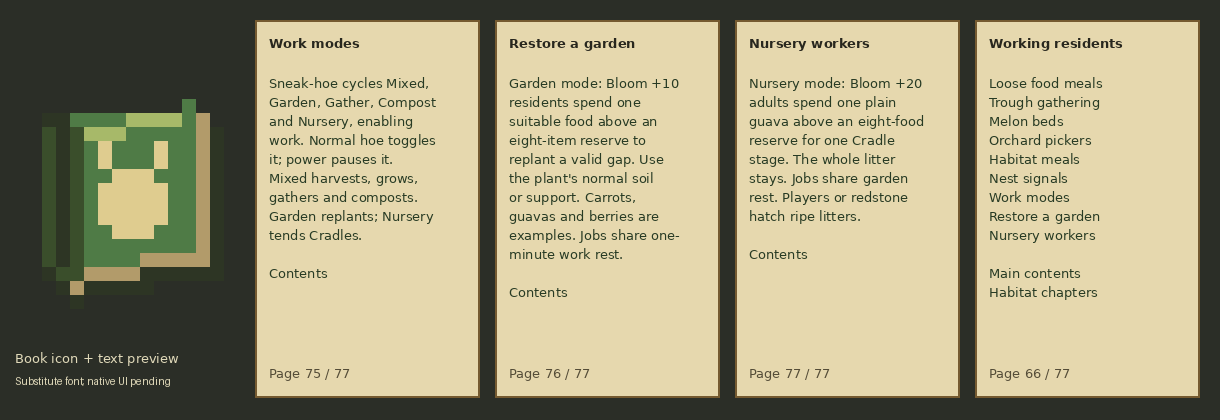
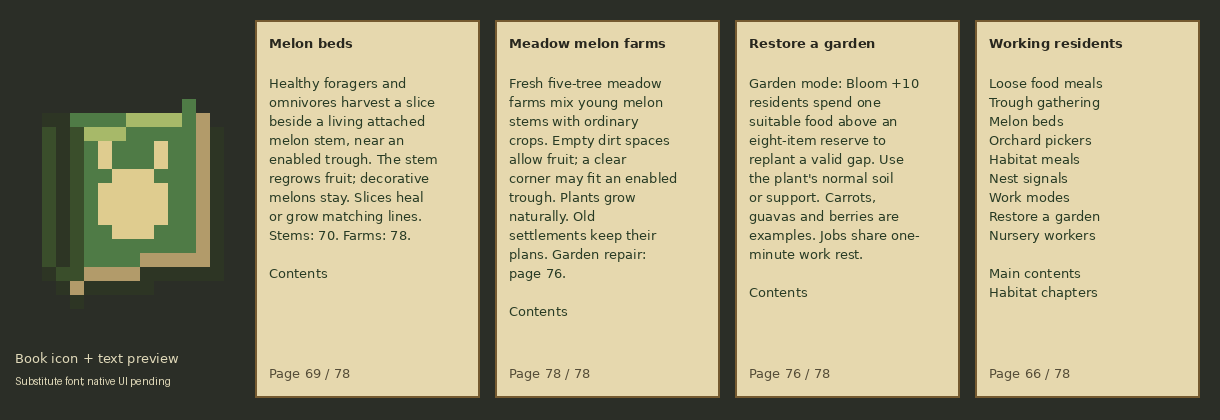
Add versioned meadow melon farms with reserved fruit spaces

diff --git a/tools/gametest/java/com/bunnidogs/mod/worldgen/RegionalFarmsGameTest.java b/tools/gametest/java/com/bunnidogs/mod/worldgen/RegionalFarmsGameTest.java
@@ -10,9 +10,11 @@ import com.bunnidogs.mod.layout.Settlement;
 import com.bunnidogs.mod.registry.ModBlocks;
 import net.minecraft.core.BlockPos;
 import net.minecraft.gametest.framework.GameTestHelper;
+import net.minecraft.util.RandomSource;
 import net.minecraft.world.item.ItemStack;
 import net.minecraft.world.item.Items;
 import net.minecraft.world.level.block.Blocks;
+import net.minecraft.world.level.block.StemBlock;
 import net.minecraft.world.level.levelgen.structure.pieces.StructurePieceSerializationContext;
 
 public final class RegionalFarmsGameTest {
@@ -51,6 +53,37 @@ public final class RegionalFarmsGameTest {
                     && level.getBlockEntity(troughPos) == trough && trough.food().getCount() == 3,"Surface-ground probing must also refuse the existing trellis roof without stacking plots");
         }
         clear(h);
+        for (int turns = 0; turns < 4; turns++) {
+            clear(h); var meadow = new Settlement.Prop(PropShape.Kind.FARM,0,0,turns);
+            h.assertTrue(WarrenFeature.buildProp(level,centre.getX(),centre.getY(),centre.getZ(),meadow,true,Lineage.MEADOW,true,true,true),"Fresh meadow melon beds must fit in every rotation");
+            var cells = RegionalFarms.cells(Lineage.MEADOW,turns,true,true);
+            var stems = cells.stream().filter(c -> c.mat() == PropShape.Mat.MELON_STEM).map(c -> centre.offset(c.dx(),c.dy(),c.dz())).toList();
+            for (var stem : stems) h.assertTrue(level.getBlockState(stem).is(Blocks.MELON_STEM) && level.getBlockState(stem).getValue(StemBlock.AGE) == 3
+                    && level.getBlockState(stem).canSurvive(level,stem),"New melon stems must begin young on valid farmland");
+            for (var gap : cells.stream().filter(c -> c.mat() == PropShape.Mat.FRUIT_SPACE).toList()) {
+                var pos = centre.offset(gap.dx(),gap.dy(),gap.dz());
+                h.assertTrue(level.getBlockState(pos).isAir() && level.getBlockState(pos.below()).is(Blocks.DIRT),"Melon gaps must be real empty cells over native fruit-support soil");
+            }
+            var corner = cells.stream().filter(c -> c.mat() == PropShape.Mat.TROUGH).findFirst().orElseThrow();
+            var pos = centre.offset(corner.dx(),corner.dy(),corner.dz()); var trough = (FeedingTroughBlockEntity)level.getBlockEntity(pos);
+            h.assertTrue(trough != null && trough.food().isEmpty(),"Meadow workers must start with an empty optional trough");
+            var stem = stems.getFirst(); level.setBlock(stem,Blocks.MELON_STEM.defaultBlockState().setValue(StemBlock.AGE,7),3);
+            var random = RandomSource.create(107);
+            for (int attempt = 0; attempt < 64 && level.getBlockState(stem).is(Blocks.MELON_STEM); attempt++)
+                level.getBlockState(stem).randomTick(level,stem,random);
+            h.assertTrue(level.getBlockState(stem).is(Blocks.ATTACHED_MELON_STEM),"Native growth must turn a supported ripe stem into real attached fruit");
+            trough.insert(new ItemStack(Items.MELON_SLICE,3));
+            h.assertTrue(!WarrenFeature.buildProp(level,centre.getX(),centre.getY(),centre.getZ(),meadow,true,Lineage.MEADOW,true,true,true)
+                    && level.getBlockEntity(pos) == trough && trough.food().getCount() == 3,"Repeated meadow generation must preserve working stock and grown fruit");
+        }
+        clear(h);
+        var oldMeadow = new Settlement.Prop(PropShape.Kind.FARM,0,0,0);
+        h.assertTrue(WarrenFeature.buildProp(level,centre.getX(),centre.getY(),centre.getZ(),oldMeadow,true,Lineage.MEADOW,true,true)
+                && level.getBlockState(centre.west()).is(Blocks.CARROTS),"Version-five meadow starts must keep their original crop geometry");
+        clear(h); var fruitGap = centre.offset(-1,0,1); level.setBlock(fruitGap,Blocks.CHEST.defaultBlockState(),3); var gapChest = level.getBlockEntity(fruitGap);
+        h.assertTrue(!WarrenFeature.buildProp(level,centre.getX(),centre.getY(),centre.getZ(),oldMeadow,true,Lineage.MEADOW,true,true,true)
+                && level.getBlockEntity(fruitGap) == gapChest && level.getBlockState(centre.below()).is(Blocks.GRASS_BLOCK),"A protected future fruit gap must refuse before any farm write");
+        clear(h);
         var prop = new Settlement.Prop(PropShape.Kind.FARM,0,0,0);
         h.assertTrue(WarrenFeature.buildProp(level,centre.getX(),centre.getY(),centre.getZ(),prop,true,Lineage.DESERT,false,false)
                 && level.getBlockState(centre.offset(-1,0,-1)).is(Blocks.WHEAT),"Old desert starts retain the previous crop plan");
@@ -61,8 +94,10 @@ public final class RegionalFarmsGameTest {
         var context = StructurePieceSerializationContext.fromLevel(level);
         var piece = new WarrenPiece(WarrenPiece.PROP,0,7,5,centre.getX(),centre.getZ(),centre.getY());
         var saved = piece.createTag(context);
-        h.assertTrue(saved.getIntOr("WarrenVersion",0) == 5 && new WarrenPiece(saved).createTag(context).getIntOr("WarrenVersion",0) == 5,
-                "New starts retain regional generation version five through native saves");
+        h.assertTrue(saved.getIntOr("WarrenVersion",0) == 6 && new WarrenPiece(saved).createTag(context).getIntOr("WarrenVersion",0) == 6,
+                "New starts retain meadow generation version six through native saves");
+        saved.putInt("WarrenVersion",5);
+        h.assertTrue(new WarrenPiece(saved).createTag(context).getIntOr("WarrenVersion",0) == 5,"Version-five plots must remain version five when loaded");
         saved.putInt("WarrenVersion",4);
         h.assertTrue(new WarrenPiece(saved).createTag(context).getIntOr("WarrenVersion",0) == 4,"Old starts must never be upgraded during load");
     }

diff --git a/art/gen_guide.py b/art/gen_guide.py
@@ -68,7 +68,7 @@ PAGES = {
     65: ('Snow-coat care', 'Brush healthy adult snow coats at Bloom +10 in a climate cold enough for snow to gather one snowball. Hidden snow gives none. Whiskers and Starlit Dust can combine. Hand and dispenser brushes share ten-minute rest. Shears gather wool separately.'),
     67: ('Loose food meals', 'Injured adults eat ordinary loose food near home by day after ten seconds. Diet, pickup delays and owner reservations apply. Upgraded guavas stay. One item heals 2 HP; food rest is thirty seconds. Keep a dry clear route.'),
     68: ('Trough gathering', 'Healthy adults at Senses +10 move one old loose matching food into a nearby hoe-enabled trough by day. Diet, filters, power and safe routes apply. Collection shares the one-minute garden rest. Loose meals: page 67.'),
-    69: ('Melon beds', 'Healthy foragers and omnivores harvest one slice from a melon beside its living attached stem, near a hoe-enabled trough. The stem stays to regrow fruit; decorative melons stay. Slices heal or grow matching lines. Stems: page 70.'),
+    69: ('Melon beds', 'Healthy foragers and omnivores harvest a slice beside a living attached melon stem, near an enabled trough. The stem regrows fruit; decorative melons stay. Slices heal or grow matching lines. Stems: 70. Farms: 78.'),
     70: ('Grow melon stems', 'Bloom +10 grows a young melon stem by one age at an enabled trough. No food is made. Mature stems await native fruit growth; leave nearby soil and air. Meadow stores may hold seeds. All jobs share one-minute garden rest.'),
     71: ('Orchard pickers', 'A dispenser with shears picks one ripe hanging guava and resets it to green for one tool use. Unripe fruit keeps the tool. Hoppers collect drops; shears still work on animals and beehives. Repair gaps: page 74.'),
     72: ('Habitat meals', 'Injured matching lines eat spare cactus tops, extra same-color mushrooms, ripe wart or stem-linked melons near home by day. Growing stock stays. No trough is needed. A meal heals 2 HP and shares thirty-second food rest.'),
@@ -77,8 +77,9 @@ PAGES = {
     75: ('Work modes', 'Sneak-hoe cycles Mixed, Garden, Gather, Compost and Nursery, enabling work. Normal hoe toggles it; power pauses it. Mixed harvests, grows, gathers and composts. Garden replants; Nursery tends Cradles.'),
     76: ('Restore a garden', 'Garden mode: Bloom +10 residents spend one suitable food above an eight-item reserve to replant a valid gap. Use the plant\'s normal soil or support. Carrots, guavas and berries are examples. Jobs share one-minute work rest.'),
     77: ('Nursery workers', 'Nursery mode: Bloom +20 adults spend one plain guava above an eight-food reserve for one Cradle stage. The whole litter stays. Jobs share garden rest. Players or redstone hatch ripe litters.'),
+    78: ('Meadow melon farms', 'Fresh five-tree meadow farms mix young melon stems with ordinary crops. Empty dirt spaces allow fruit; a clear corner may fit an enabled trough. Plants grow naturally. Old settlements keep their plans. Garden repair: page 76.'),
 }
-PAGE_COUNT = 77
+PAGE_COUNT = 78
 MAIN_INDEX = {2:'Warrens & scouts',4:'Breeding & seeds',8:'Homes & food',11:'Care & traits',15:'Lab & splicing',
               17:'Registry & shows',19:'Material drops',20:'Apex of the Line'}
 MORE_INDEX = {24:'Guava juice',25:'Gardens & stores',27:'Boss forecast',28:'Living harvests',29:'Terrain & fishing',
@@ -133,7 +134,7 @@ def main():
         bold = ImageFont.truetype('DejaVuSans-Bold.ttf',13)
     except OSError:
         font = bold = ImageFont.load_default()
-    for x,page in [(255,75),(495,76),(735,77),(975,66)]:
+    for x,page in [(255,69),(495,78),(735,76),(975,66)]:
         d.rectangle((x,20,x+224,397),fill=(230,216,174),outline=(117,90,48),width=2)
         title = 'Bunnidogs Guide' if page == 1 else 'More chapters' if page == 40 else 'New chapters' if page == 50 else 'Habitat chapters' if page == 56 else 'Working residents' if page == 66 else PAGES[page][0]
         d.text((x+14,35),title,font=bold,fill=(40,39,30))

diff --git a/art/preview_farms.py b/art/preview_farms.py
@@ -7,8 +7,9 @@ from PIL import Image, ImageDraw, ImageFont
 COLORS = {'SAND':(213,191,134),'CACTUS':(65,127,65),'SOUL_SAND':(91,67,58),'NETHER_WART':(146,35,45),
           'MYCELIUM':(129,112,136),'RED_MUSHROOM':(206,65,58),'BROWN_MUSHROOM':(155,117,84),
           'END_STONE':(218,218,169),'CHORUS_FLOWER':(162,119,162),'PLANK':(161,111,68),
-          'GLOW_VINE':(102,143,65),'FILL':(101,104,93),'TROUGH':(146,98,59)}
-PLANTS = {'NETHER_WART','RED_MUSHROOM','BROWN_MUSHROOM','CHORUS_FLOWER','GLOW_VINE'}
+          'GLOW_VINE':(102,143,65),'FILL':(101,104,93),'TROUGH':(146,98,59),'WATER':(56,114,173),
+          'FARMLAND':(106,74,48),'WHEAT':(183,168,65),'CARROTS':(105,162,57),'POTATOES':(122,151,66),'MELON_STEM':(133,170,65)}
+PLANTS = {'NETHER_WART','RED_MUSHROOM','BROWN_MUSHROOM','CHORUS_FLOWER','GLOW_VINE','WHEAT','CARROTS','POTATOES','MELON_STEM'}
 
 def main():
     farms=[]
@@ -16,13 +17,16 @@ def main():
         if line.startswith('FARM '): farms.append((line.split()[1],[]))
         elif line.strip():
             x,y,z,mat=line.split(); farms[-1][1].append((int(x),int(y),int(z),mat))
-    img=Image.new('RGB',(990,580),(37,42,39)); d=ImageDraw.Draw(img)
+    img=Image.new('RGB',(990,650),(37,42,39)); d=ImageDraw.Draw(img)
     font=ImageFont.truetype('DejaVuSans.ttf',14)
     for i,(name,cells) in enumerate(farms):
         ox,oy=165+(i%3)*330,207+(i//3)*270
         d.text((ox-95,oy-175),name.title(),font=font,fill=(233,225,193))
         for x,y,z,mat in sorted(cells,key=lambda c:(c[0]+c[2],c[1],c[0])):
             px,py=ox+(x-z)*32,oy+(x+z)*15-y*29
+            if mat == 'FRUIT_SPACE':
+                d.polygon([(px,py-17),(px+29,py-2),(px,py+13),(px-29,py-2)],outline=(234,197,104),width=2)
+                continue
             r=9 if mat in PLANTS else 29
             height=15 if mat in PLANTS else 10 if mat=='TROUGH' else 27
             c=COLORS[mat]; dark=tuple(int(v*.6) for v in c); mid=tuple(int(v*.8) for v in c)
@@ -31,10 +35,8 @@ def main():
             d.polygon([(px,py+r/2-height),(px+r,py-height),(px+r,py),(px,py+r/2)],fill=mid)
             d.polygon(top,fill=c,outline=(32,38,29))
             if mat=='GLOW_VINE': d.ellipse((px-4,py-height-4,px+4,py-height+4),fill=(246,176,49))
-    d.text((682,343),'Versioned regional farms',font=font,fill=(233,225,193))
-    d.text((682,374),'Same 3x3 footprint',font=font,fill=(190,194,174))
-    d.text((682,402),'Optional empty corner trough',font=font,fill=(190,194,174))
-    d.text((16,549),'Actual layout cells; approximate colors. Native terrain and client appearance require gameplay review.',font=font,fill=(190,194,174))
+    d.text((16,579),'Version-six meadow beds / same 3x3 footprint / optional empty corner trough',font=font,fill=(233,225,193))
+    d.text((16,606),'Outlines: fruit gaps. Actual cells; approximate colors. Native terrain and client appearance need playtests.',font=font,fill=(190,194,174))
     path=Path(__file__).with_name('regional_farms_preview.png'); img.save(path); print('Wrote',path.name)
 
 if __name__=='__main__': main()

diff --git a/src/main/java/com/bunnidogs/mod/worldgen/WarrenFeature.java b/src/main/java/com/bunnidogs/mod/worldgen/WarrenFeature.java
@@ -190,7 +190,7 @@ public class WarrenFeature extends Feature<NoneFeatureConfiguration> {
                 && RegionalFarms.eligible(p.kind(),style,surfaceOnly)).toList();
         int propsWanted = eligibleProps.size();
         for (Settlement.Prop prop : eligibleProps) {
-            if (buildProp(level, floor.getX() + prop.dx(), floor.getY(), floor.getZ() + prop.dz(), prop, surfaceOnly, style,true,true)) {
+            if (buildProp(level, floor.getX() + prop.dx(), floor.getY(), floor.getZ() + prop.dz(), prop, surfaceOnly, style,true,true,true)) {
                 props++;
                 builtProps.add(prop);
             }
@@ -319,6 +319,10 @@ public class WarrenFeature extends Feature<NoneFeatureConfiguration> {
     }
     static boolean buildProp(WorldGenLevel level, int x, int y, int z, Settlement.Prop prop, boolean surface,
             Lineage style, boolean garden, boolean regional) {
+        return buildProp(level,x,y,z,prop,surface,style,garden,regional,false);
+    }
+    static boolean buildProp(WorldGenLevel level, int x, int y, int z, Settlement.Prop prop, boolean surface,
+            Lineage style, boolean garden, boolean regional, boolean melonBeds) {
         BlockPos centre = groundAt(level, x, y, z, surface);
         if (centre == null) {
             return false;
@@ -354,7 +358,7 @@ public class WarrenFeature extends Feature<NoneFeatureConfiguration> {
         boolean fittedGarden = garden && prop.kind() == PropShape.Kind.FARM && (regional || style != Lineage.END)
                 && fitsGarden(level,base,prop.turns());
         List<PropShape.Cell> cells = regional && prop.kind() == PropShape.Kind.FARM
-                ? RegionalFarms.cells(style,prop.turns(),fittedGarden)
+                ? RegionalFarms.cells(style,prop.turns(),fittedGarden,melonBeds)
                 : PropShape.cells(prop.kind(), prop.turns(),fittedGarden);
         for (PropShape.Cell cell : cells) {
             if (cell.dy() >= 0 && !GuavaTree.replaceable(level.getBlockState(base.offset(cell.dx(), cell.dy(), cell.dz())))) {
@@ -416,6 +420,8 @@ public class WarrenFeature extends Feature<NoneFeatureConfiguration> {
             case CHORUS_FLOWER -> Blocks.CHORUS_FLOWER.defaultBlockState();
             case PLANK -> ModBlocks.GUAVA_PLANKS.get().defaultBlockState();
             case GLOW_VINE -> Blocks.CAVE_VINES.defaultBlockState().setValue(net.minecraft.world.level.block.CaveVines.BERRIES,true);
+            case MELON_STEM -> Blocks.MELON_STEM.defaultBlockState().setValue(net.minecraft.world.level.block.StemBlock.AGE,3);
+            case FRUIT_SPACE -> Blocks.AIR.defaultBlockState();
         };
     }
 

diff --git a/tools/warren/WarrenNetworkCheck.java b/tools/warren/WarrenNetworkCheck.java
@@ -45,6 +45,18 @@ public final class WarrenNetworkCheck {
                 if (style == Lineage.MEADOW || style == Lineage.TUNDRA || style == Lineage.MOUNTAIN)
                     require(regional.equals(PropShape.cells(PropShape.Kind.FARM,turns,garden)),"Ordinary agricultural layouts retain their geometry");
                 else require(regional.stream().noneMatch(c -> c.mat() == PropShape.Mat.WATER),"Regional beds need no unsupported water source");
+                var current = RegionalFarms.cells(style,turns,garden,true);
+                if (style != Lineage.MEADOW) require(current.equals(regional),"Version six must retain other regional plots");
+                else {
+                    require(current.stream().allMatch(c -> Math.abs(c.dx()) <= 1 && Math.abs(c.dz()) <= 1 && c.dy() >= -1 && c.dy() <= 0),"Melon beds must fit the old reservation");
+                    require(current.stream().map(c -> new Pos(c.dx(),c.dy(),c.dz())).distinct().count() == current.size(),"Melon bed cells cannot overlap");
+                    require(current.stream().filter(c -> c.dy() == -1).count() == 9 && current.stream().filter(c -> c.mat() == PropShape.Mat.WATER).count() == 1,"Melon beds need all nine supports and one native water source");
+                    var stems = current.stream().filter(c -> c.mat() == PropShape.Mat.MELON_STEM).toList();
+                    var spaces = current.stream().filter(c -> c.mat() == PropShape.Mat.FRUIT_SPACE).toList();
+                    require(stems.size() == 2 && spaces.size() == 2,"Meadow beds need two stems and two reserved fruit gaps");
+                    require(spaces.stream().allMatch(p -> stems.stream().anyMatch(s -> Math.abs(s.dx()-p.dx())+Math.abs(s.dz()-p.dz()) == 1)),"Each rotated fruit gap must touch a stem");
+                    require(current.stream().filter(c -> c.mat() == PropShape.Mat.TROUGH).count() == (garden ? 1 : 0),"Melon beds keep their optional single corner trough");
+                }
             }
             var farm = PropShape.cells(PropShape.Kind.FARM,turns,true);
             require(farm.stream().filter(c -> c.mat() == PropShape.Mat.TROUGH).count() == 1,"Each rotated working farm needs one trough");

diff --git a/src/main/java/com/bunnidogs/mod/layout/RegionalFarms.java b/src/main/java/com/bunnidogs/mod/layout/RegionalFarms.java
@@ -7,7 +7,7 @@ import com.bunnidogs.mod.genetics.Lineage;
 import com.bunnidogs.mod.layout.PropShape.Cell;
 import com.bunnidogs.mod.layout.PropShape.Mat;
 
-/** Version-five farm variants, all inside the original 3x3 footprint and three-block height reservation. */
+/** Versioned farm variants, all inside the original 3x3 footprint and three-block height reservation. */
 public final class RegionalFarms {
     private RegionalFarms() {}
     /** Underground features omit sky/water landmarks but can fit their water-free regional farm. */
@@ -20,8 +20,22 @@ public final class RegionalFarms {
         if (garden) out.add(new Cell(-1,0,-1,Mat.TROUGH));
     }
     public static List<Cell> cells(Lineage style, int turns, boolean garden) {
+        return cells(style,turns,garden,false);
+    }
+    public static List<Cell> cells(Lineage style, int turns, boolean garden, boolean melonBeds) {
         var raw = new ArrayList<Cell>();
         switch (style) {
+            case MEADOW -> {
+                if (!melonBeds) return PropShape.cells(PropShape.Kind.FARM,turns,garden);
+                for (int x = -1; x <= 1; x++) for (int z = -1; z <= 1; z++) {
+                    boolean trough = garden && x == -1 && z == -1;
+                    boolean fruit = z == 1 && x != 0;
+                    raw.add(new Cell(x,-1,z,x == 0 && z == 0 ? Mat.WATER : trough || fruit ? Mat.FILL : Mat.FARMLAND));
+                    if (x == 0 && z == 0) continue;
+                    raw.add(new Cell(x,0,z,trough ? Mat.TROUGH : fruit ? Mat.FRUIT_SPACE : z == 0 ? Mat.MELON_STEM
+                            : x == 0 ? z < 0 ? Mat.POTATOES : Mat.CARROTS : Mat.WHEAT));
+                }
+            }
             case DESERT -> {
                 ground(raw,Mat.SAND,garden);
                 raw.add(new Cell(0,0,0,Mat.CACTUS)); raw.add(new Cell(0,1,0,Mat.CACTUS));

diff --git a/src/main/java/com/bunnidogs/mod/worldgen/WarrenPiece.java b/src/main/java/com/bunnidogs/mod/worldgen/WarrenPiece.java
@@ -92,7 +92,7 @@ public class WarrenPiece extends StructurePiece {
         this.wayfinding = wayfinding.clone();
         this.lifeFixtures = lifeFixtures.clone();
         this.woodDetails = true;
-        this.generationVersion = 5;
+        this.generationVersion = 6;
     }
 
     public WarrenPiece(CompoundTag tag) {
@@ -195,7 +195,7 @@ public class WarrenPiece extends StructurePiece {
                         level == 1 && (style != Lineage.END || generationVersion < 2), networkDen,generationVersion >= 3);
             }
         } else if (kind == PROP) {
-            WarrenFeature.buildProp(world, x, y, z, s.props().get(index), true, style,generationVersion >= 4,generationVersion >= 5);
+            WarrenFeature.buildProp(world, x, y, z, s.props().get(index), true, style,generationVersion >= 4,generationVersion >= 5,generationVersion >= 6);
         } else {
             WarrenFeature.buildHouse(world, x, y, z, s.houses().get(index), true, style, level,woodDetails);
         }

diff --git a/tools/FarmDump.java b/tools/FarmDump.java
@@ -4,9 +4,9 @@ import com.bunnidogs.mod.layout.RegionalFarms;
 /** Actual regional cells for art/preview_farms.py; pure layout preview, not a Minecraft screenshot. */
 public final class FarmDump {
     public static void main(String[] args) {
-        for (var style : new Lineage[]{Lineage.DESERT,Lineage.NETHER,Lineage.SWAMP,Lineage.CAVE,Lineage.END}) {
+        for (var style : new Lineage[]{Lineage.MEADOW,Lineage.DESERT,Lineage.NETHER,Lineage.SWAMP,Lineage.CAVE,Lineage.END}) {
             System.out.println("FARM "+style);
-            for (var c : RegionalFarms.cells(style,0,true))
+            for (var c : RegionalFarms.cells(style,0,true,true))
                 System.out.println(c.dx()+" "+c.dy()+" "+c.dz()+" "+c.mat());
         }
     }

diff --git a/src/main/java/com/bunnidogs/mod/layout/PropShape.java b/src/main/java/com/bunnidogs/mod/layout/PropShape.java
@@ -24,7 +24,8 @@ public final class PropShape {
     public enum Kind { HAYSTACK, WELL, STALL, FARM, PLAZA }
 
     public enum Mat { HAY, BARREL, COBBLE, MOSSY, WATER, FENCE, SLAB, LANTERN, PUMPKIN, MELON, FARMLAND, WHEAT, CARROTS, POTATOES, FILL, TROUGH,
-        SAND, CACTUS, SOUL_SAND, NETHER_WART, MYCELIUM, RED_MUSHROOM, BROWN_MUSHROOM, END_STONE, CHORUS_FLOWER, PLANK, GLOW_VINE }
+        SAND, CACTUS, SOUL_SAND, NETHER_WART, MYCELIUM, RED_MUSHROOM, BROWN_MUSHROOM, END_STONE, CHORUS_FLOWER, PLANK, GLOW_VINE,
+        MELON_STEM, FRUIT_SPACE }
 
     /** One block of a landmark, relative to the centre column. */
     public record Cell(int dx, int dy, int dz, Mat mat) {}

diff --git a/src/main/java/com/bunnidogs/mod/item/FieldGuideItem.java b/src/main/java/com/bunnidogs/mod/item/FieldGuideItem.java
@@ -12,7 +12,7 @@ import net.minecraft.world.item.component.WrittenBookContent;
 
 /** Native book UI/packets, translated pages and local page links; no custom screen or payload. */
 public final class FieldGuideItem extends WrittenBookItem {
-    public static final int PAGE_COUNT = 77;
+    public static final int PAGE_COUNT = 78;
     private static final int MORE_CONTENTS = 40;
     private static final int NEW_CONTENTS = 50;
     private static final int HABITAT_CONTENTS = 56;

diff --git a/docs/API_NOTES.md b/docs/API_NOTES.md
@@ -28,6 +28,7 @@ Status words: **COMPILED** = the user's compile accepted it (names and types are
 ### Lookup table (need -> what works in this project -> status -> exact place)
 | Need | What works | Status | Where it was verified |
 |---|---|---|---|
+| Meadow farms L31 | Append MELON_STEM/FRUIT_SPACE materials and a version-six-only layout flag. Old overloads retain v5 cells; native StemBlock randomTick is protected, so native fixtures call BlockState.randomTick(ServerLevel,BlockPos,RandomSource). Young stems use age 3; dirt gaps must be authored air cells for full preflight. | Build/all 59 native cases plus focused rotated layout/old-version/growth checks | RegionalFarms, WarrenFeature, WarrenPiece, RegionalFarmsGameTest |
 | Selected resident work L28–L30/N9 | Save optional WorkMode on the existing trough BE; crouched hoe controls must extend TroughInteraction alongside food because native secondary use otherwise bypasses blocks. Reserve one exact surplus input, then recheck source identity/mode, worker, route and target after native callbacks; refund once on refusal/removal. Cradle nurture checks whole ItemStack/age/attachment and adds exactly one stage rather than random bone-meal ages. | Java 25 build/all 59 native scenarios; actual controls/saves, protected placement, reentrant source/litter changes and exact costs | TroughWork, ResidentPlanting, GardenGoal, NurseryCradleBlockEntity, ResidentWorkGameTest |
 | Nest comparator H9 | Block analog output uses the native four-argument getAnalogOutputSignal. PoiManager occupied count at radius zero reads the saved claim; notify loaded analog neighbors after take/release with native weak-change hooks, guarding the second step through conductors too (native Level only guards the first). Comparator reads schedule a five-second native refresh so unnotified remote releases correct on return. Do not scan living residents or load remote terrain. | Actual native comparator claim/move/reload/travel/death and remote-refusal case | NestBlock, NestHome, NestSignalGameTest |
 | Orchard stations O6/O7 | Capture prior shears/plain-guava dispenser behaviors after native setup. Delegate non-fruit shearing/invalid guava planting; OptionalDispenseItemBehavior consumes/wears only after successful shared plant/pick. Reset ripe fruit before Block.popResource payment. CommonHooks.tryDispenseShearsHarvestBlock queries source.state, so use the explicit target wrapper. | Resolved native shears source + redstone/hopper/beehive/plant/fallback cases | ModDispensers, GuavaFruitBlock, OrchardPickingGameTest |

diff --git a/docs/SETTLEMENT_LIFE.md b/docs/SETTLEMENT_LIFE.md
@@ -777,3 +777,29 @@ in Garden mode (L29), and paid one-stage Cradle care in Nursery mode (L30/N9).
 Old/new default Mixed keeps existing jobs; more food-spending work requires an
 explicit mode. Native controls/saves, resource conservation and protected work
 pass all 59 native cases. The 77-page guide includes the new controls and jobs.
+
+## L31: fresh meadow melon plots
+
+New meadow farms mix two age-three melon stems with wheat/roots and one native
+water source. Two dirt cells are explicitly reserved as air for future fruit;
+the existing optional empty hoe-enabled corner trough replaces one crop when
+its outside walking space fits. Layouts rotate within the old 3×3 footprint
+and height reservation. Native growth supplies fruit; no mature melon or free
+new stock is placed. The ordinary native growth rules may use other valid
+neighboring soil as well, so players should keep room around the stems.
+
+New pieces save WarrenVersion six. Version-five/older pieces keep the former
+crop geometry; other regional farm types and every existing saved tunnel,
+fixture, container, house and tree plan remain unchanged. Direct fresh feature
+placement uses the new layout. Preflight includes fruit-gap air cells, so a
+protected container there refuses the whole plot before soil/crops are edited.
+Repeated placement preserves grown fruit and trough stock.
+
+Java 25 build/all 59 native cases pass. The existing regional-farm scenario
+now exercises all four meadow rotations, valid young stems/real dirt gaps,
+actual native age-seven fruit growth, untouched repeat stock and protected-gap
+refusal, plus six/five/four generation-version saves and old meadow crop
+selection. Focused layout checks cover footprint/unique supports/water, both
+corner variants, stem-to-gap adjacency and unchanged other regions. Actual
+cell/farm and guide previews are inspected. Natural terrain and long growth
+cycles remain gameplay review.
